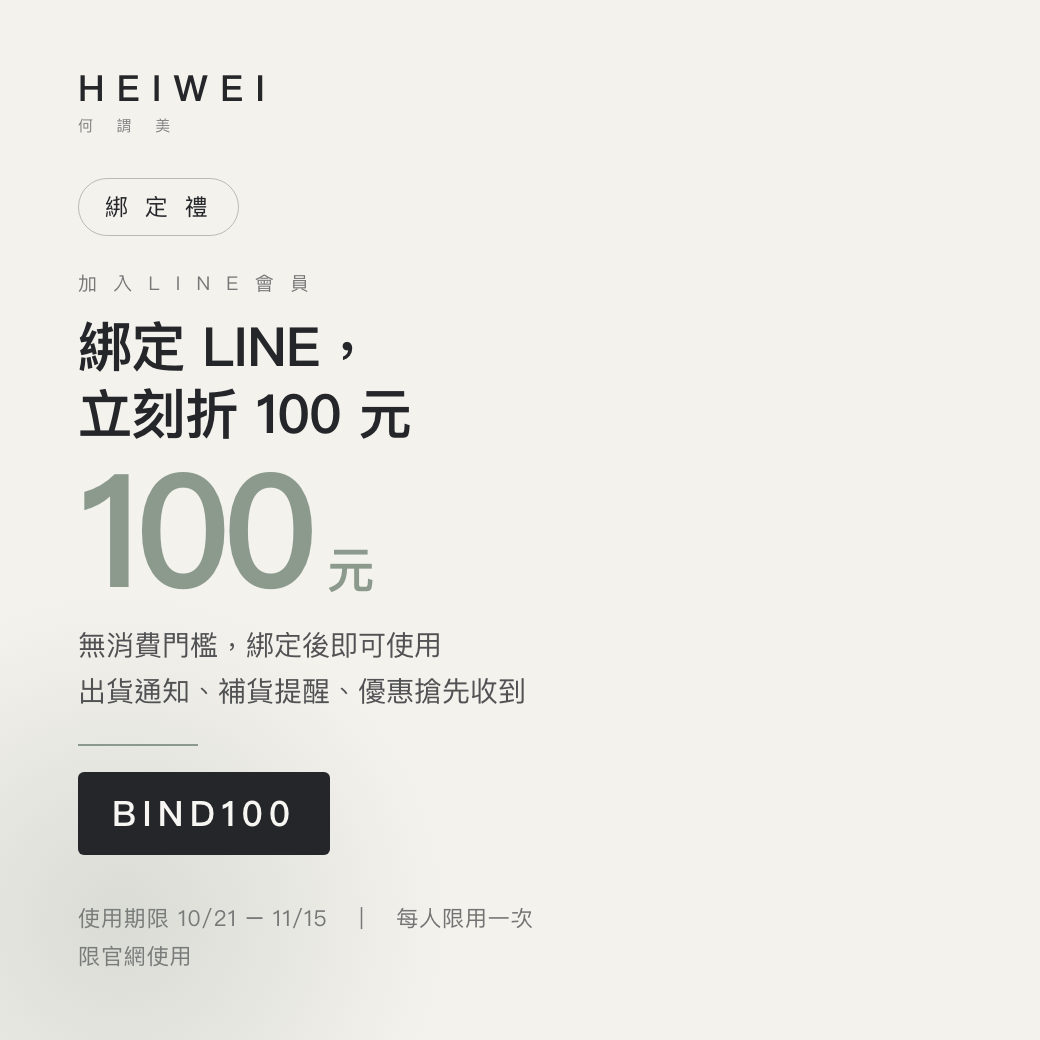
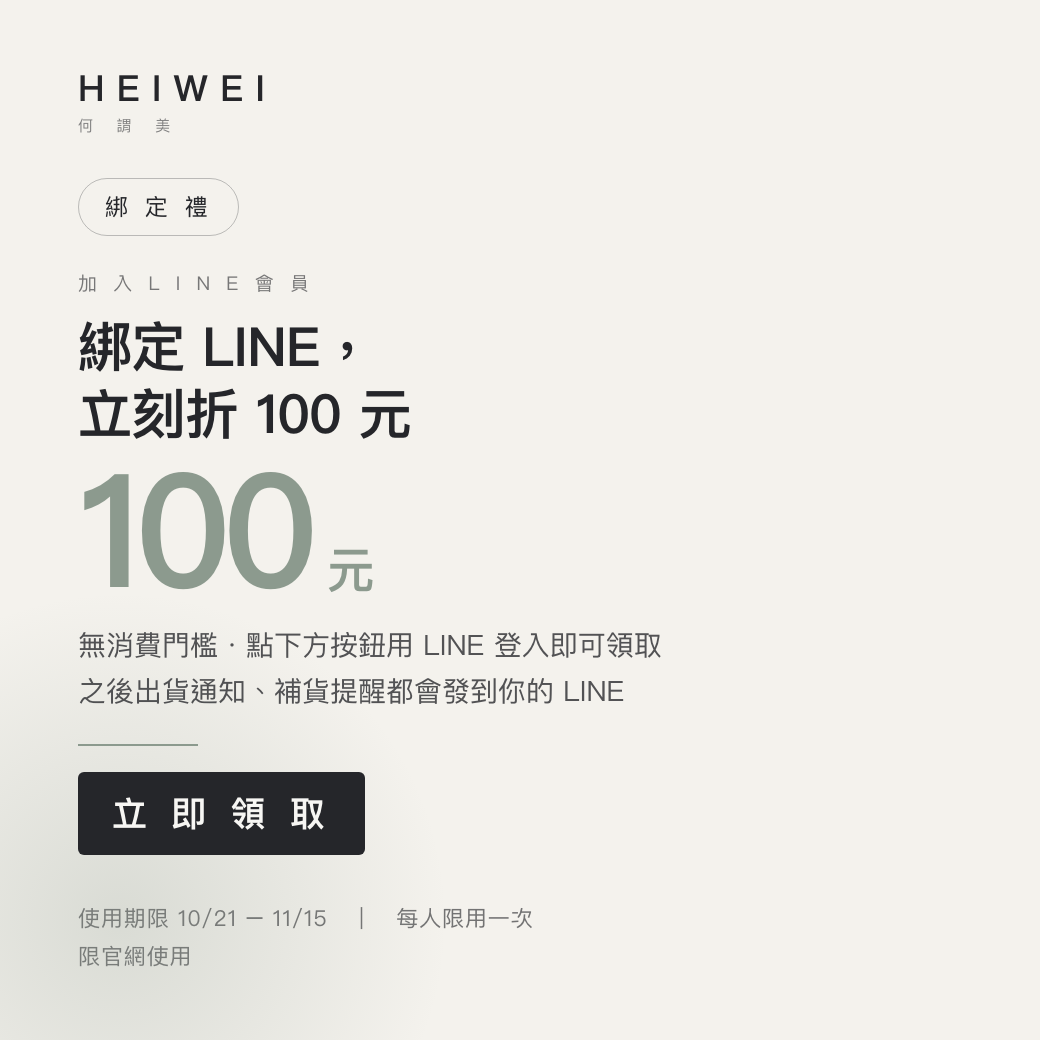
feat(crm-v2): BIND100 改為領取型優惠券，用領券連結取代折扣碼
原設計把折扣碼印在 A 軌信裡，但無門檻、無驗證——收到信的人直接複製
代碼就能用，綁不綁 LINE 完全不影響，「綁定禮」名存實亡。

Shopline 的領取型優惠券有現成解法：
  /get_coupon/<promotion_id>
  未登入點擊 → 302 到 /users/sign_in?result=not_login&promotion_id=<id>
  promotion_id 被帶著走，登入完成即自動領券（已用本站實測轉址行為）

所以「要登入才領得到」本身就是閘門：
- 信裡只放連結、沒有代碼，無法轉傳給非會員使用
- 引導選「使用 LINE 登入」→ 綁定與領券同時完成，零等待
- 不需要寫程式每隔幾分鐘輪詢偵測綁定再補發（原方案已作廢）
- 同一條連結可直接貼到 LINE 加入好友歡迎訊息與關鍵字自動回應，
  且不會與 Shopline 佔用的 webhook 衝突（@heiwei 的 webhook 指向
  front-admin.shoplineapp.com，一個 channel 只能有一個，不可改）

變更
- 圖卡 bind100：代碼區塊改為「立即領取」，說明改為引導 LINE 登入
- bind100.flex.json：移除複製折扣碼按鈕（已無代碼），改為領券連結按鈕
- 新增 set_claim_link.py：查出 promotion_id 並填入 Flex，印出領券連結
- 文案要點加粗體警告「信裡絕對不要放折扣碼」
- 客服手冊地雷由三條增為四條，第一條即為此事並寫出網址長相
- 手冊第 2 頁註明 BIND100 須選「透過連結或顧客分群發送」

待驗
- 登入後是否真的自動入帳，需由 Sam 以前台帳號實測（本機無前台登入權限）

無門檻維持不變（最低價商品 NT$310，等於 32% 折扣，已向使用者說明並確認）

Claude-Session: https://claude.ai/code/session_0139KhdQSS6gtY7sKbVk6GZj

Changed region(s): [[0.0615, 0.5846, 0.6462, 0.6769], [0.0923, 0.7385, 0.3692, 0.8308]]

diff --git a/data/crm-v2/sop.html b/data/crm-v2/sop.html
@@ -138,8 +138,8 @@ table.sop .fill{min-width:17mm}
 
 <table>
 <tr><th style="width:7mm"></th><th style="width:26mm">折扣碼</th><th>優惠內容</th><th style="width:44mm">使用期限</th><th style="width:15mm">每人</th><th style="width:20mm">總量</th></tr>
-<tr><td><span class=chk></span></td><td><code>BIND100</code></td><td>折抵 <b>NT$100</b>（<b>無門檻</b>）</td><td>10/21 – 11/15</td><td>1 次</td><td>不限</td></tr>
-<tr><td></td><td colspan=5 class=mute style="padding-top:0;border-bottom:1px solid #dcdcdd">① <b>綁定禮</b>｜A 軌 Email 的誘因，顧客綁定 LINE 後給這組碼。預估使用 300–800 次。</td></tr>
+<tr><td><span class=chk></span></td><td><code>BIND100</code><br><span class=mute>領取型優惠券</span></td><td>折抵 <b>NT$100</b>（<b>無門檻</b>）<br><span class=mute>第三步驟選「透過連結或顧客分群發送」</span></td><td>10/21 – 11/15</td><td>1 次</td><td>不限</td></tr>
+<tr><td></td><td colspan=5 class=mute style="padding-top:0;border-bottom:1px solid #dcdcdd">① <b>綁定禮</b>｜A 軌 Email 的誘因。<b>建好後把 promotion_id 給 Sam</b> 組成領券連結；信裡放連結不放代碼。預估 300–800 次。</td></tr>
 <tr><td><span class=chk></span></td><td><code>V2RETURN</code></td><td>滿 NT$2,000 折 <b>NT$200</b></td><td><b>10/31 – 11/15</b>（提前 48 小時）</td><td>1 次</td><td>200 次</td></tr>
 <tr><td></td><td colspan=5 class=mute style="padding-top:0;border-bottom:1px solid #dcdcdd">② <b>回頭客週年慶先行</b>｜B 軌 LINE 推播給 136 位高價值客。<b>這組碼的使用次數＝本次推播的轉換數</b>，是唯一的成效依據。</td></tr>
 <tr style="opacity:.45"><td>—</td><td><code>V2NEW</code></td><td colspan=4><b>本次不建立</b>　（無新品上架，方案未定）</td></tr>
@@ -151,6 +151,7 @@ table.sop .fill{min-width:17mm}
 <div style="margin-top:2mm"><span class=chk></span>　適用通路：<b>官網</b>（不含團購頁、不含線下）</div>
 <div><span class=chk></span>　折扣碼大小寫不限，但請照上表原樣輸入</div>
 <div><span class=chk></span>　兩組都建好後，各自在前台下一筆測試單確認能折抵</div>
+<div><span class=chk></span>　<b>BIND100 另需實測領券連結</b>：登出 → 點連結 → 用 LINE 登入 → 確認券入帳</div>
 <div><span class=chk></span>　完成日：<b>10/20（一）前</b>　實際完成 <span class=fill style="min-width:26mm"></span>　執行人 <span class=fill style="min-width:22mm"></span></div>
 </div>
 
@@ -186,7 +187,7 @@ table.sop .fill{min-width:17mm}
 <div style="margin-top:2mm;line-height:1.72">
 <span class=chk></span>1. 依<b>《客服_Shopline 電郵廣播操作手冊》</b>建立顧客分群<br>
 <span class=chk></span>2. 向行銷部索取定稿文案<br>
-<span class=chk></span>3. <b>先寄給自己一封測試</b>，確認折扣碼與綁定連結可用<br>
+<span class=chk></span>3. <b>先寄給自己一封測試</b>，實測領券連結能用 LINE 登入並領到券<br>
 <span class=chk></span>4. 用「<b>預約發送</b>」排 10/21，不要用「直接發送」<br>
 <span class=chk></span>5. 寄出後記錄實際寄送人數<br>
 <span class=chk></span>6. 於 <b>10/22 前</b>把下表填好交給 Sam
@@ -206,11 +207,11 @@ table.sop .fill{min-width:17mm}
 
 <div class=sec><div class=sh><b>文案要點（給行銷部）</b><span>COPY BRIEF</span></div>
 <div class="callout" style="line-height:1.6"><b>主軸：「綁定 LINE，週年慶優惠提前 48 小時通知你」</b><br>
-必須包含的四件事：<br>
 ① <b>為什麼要綁</b> —— 出貨通知、補貨提醒、優惠搶先知道，不用翻信箱<br>
-② <b>綁定方式</b> —— 加入 @heiwei 官方帳號並於官網以 LINE 登入<br>
-③ <b>立即好處</b> —— 綁定後輸入折扣碼 <code>BIND100</code> 現折 100 元，無消費門檻<br>
+② <b>怎麼領</b> —— 放<b>領券連結</b>，點了選「使用 LINE 登入」，登入完成券就自動入帳<br>
+③ <b>立即好處</b> —— 100 元優惠券，<b>無消費門檻</b><br>
 ④ <b>期限</b> —— 11/15 前有效<br>
+<b>⚠ 信裡絕對不要放折扣碼。</b>放了就能被轉傳、不綁定也能用，整個綁定誘因會失效。只放連結。<br>
 ⚠ <b>不要寫「美白」「防曬」「SPF」等功效宣稱</b>（檢驗報告結案前一律凍結）。</div>
 </div>
 </div>

diff --git a/data/crm-v2/cs_email_sop.html b/data/crm-v2/cs_email_sop.html
@@ -186,36 +186,43 @@ table.sop .fill{min-width:17mm}
 </div>
 </div>
 <div class=ft><div>HEIWEI 何謂美　｜　2026/10/15 版　｜　列印後依序執行，完成請打勾</div><div>客服操作手冊　・　2 / 3</div></div></div><div class=page><div class=hd><div class=logo>HEIWEI<div class=sub>何 謂 美</div></div><div class=hdr><div class=t1>Shopline 電郵廣播操作手冊</div><div class=t2>EMAIL BROADCAST SOP</div><div class=t3>注意事項與成效回報</div></div></div>
-<div class=sec><div class=sh><b>三個會出事的地方</b><span>PITFALLS</span></div>
+<div class=sec><div class=sh><b>四個會出事的地方</b><span>PITFALLS</span></div>
 
 <div class=step>
-<b class=t>① 連結一定要貼完整網址</b>
+<b class=t>① 信裡放「領券連結」，絕對不要放折扣碼</b>
 <div style="margin-top:1.8mm;line-height:1.75">
-要貼 <code>https://www.heiweibeauty.com/...</code> 這種<b>完整含 https 的網址</b>。<br>
-系統會自動幫你轉成短網址並記錄點擊 ——
+Sam 會給你一條這樣的網址：<code>https://www.heiweibeauty.com/get_coupon/xxxxx</code><br>
+顧客點了會被要求登入，選「<b>使用 LINE 登入</b>」後優惠券自動入帳 ——
+<b>登入這個動作就是我們要的綁定</b>。<br>
+若改放折扣碼，顧客不綁定也能用、還能轉傳給別人，整個活動就失去意義。
+</div>
+</div>
+
+<div class=step>
+<b class=t>② 連結要貼完整網址</b>
+<div style="margin-top:1.8mm;line-height:1.75">
+要貼<b>完整含 https 的網址</b>。系統會自動轉成短網址並記錄點擊 ——
 <b>不要自己先用短網址工具縮過再貼</b>，會導致點擊數追蹤不到。
 </div>
 </div>
 
 <div class=step>
-<b class=t>② 一封信最多只能放 10 個連結</b>
+<b class=t>③ 一封信最多只能放 10 個連結</b>
 <div style="margin-top:1.8mm;line-height:1.75">
 超過 10 個，顧客收到的連結會是錯的。<br>
-本次信件預計只需要 2 個：綁定教學連結、官網連結。
+本次信件預計只需要 2 個：<b>領券連結</b>、官網連結。
 </div>
 </div>
 
 <div class=step>
-<b class=t>③ 一律用「預約發送」，不要用「直接發送」</b>
+<b class=t>④ 一律用「預約發送」，不要用「直接發送」</b>
 <div style="margin-top:1.8mm;line-height:1.75">
 「直接發送」按下去就<b>不能修改也不能取消</b>。<br>
 「預約發送」在設定時間到之前都還能改內容、改對象、整個取消。
 </div>
 </div>
 
-<div class="callout warn" style="line-height:1.55"><b>寄出前務必先試寄一封給自己。</b>
-做法：另外建一個只含你自己的顧客分群，先發一封測試，確認版面、連結、折扣碼都正確，再發正式的那封。
-</div>
+<div class="callout warn" style="line-height:1.5;margin-top:2.2mm"><b>寄出前務必先試寄給自己</b>——另建一個只含你自己的分群，確認版面與領券連結都正確，再發正式那封。</div>
 </div>
 
 <div class=sec style="margin-top:5mm"><div class=sh><b>第三步　看成效並回報</b><span>STEP 3 · REPORT</span></div>

diff --git a/data/crm-v2/report.html b/data/crm-v2/report.html
@@ -178,7 +178,7 @@ V2 的 A 軌改走 <b>Shopline 廣播中心</b>，原生提供點擊人數、下
 <div class="callout warn"><b>⚠ 購物金發放方式待確認：</b>
 Shopline 顧客資料有 <code>credit_balance</code> 欄位，但<b>能否用 API 批次發放尚未驗證</b>。
 若不行則需後台逐筆操作 —— 兩千多位不可能手動發。
-<b><b>已定案</b>改為「綁定後自動發 100 元折扣碼」（BIND100）</b>，折扣碼可一次建立、所有人共用，後台設定「每人限用一次」。</div>
+<b>已定案改為「領取型優惠券」</b>（BIND100）。領券連結本身即為閘門：未登入領不到；登入時選「使用 LINE 登入」，<b>綁定與領券同時完成，零等待</b>，也不需要寫程式輪詢偵測。</div>
 </div>
 
 <div class=sec><div class=sh><b>與既有檔期的關係</b><span>CALENDAR FIT</span></div>

diff --git a/heiwei-line-cards/_bind100.html b/heiwei-line-cards/_bind100.html
@@ -18,9 +18,9 @@
     <div class=eyebrow>加 入 L I N E 會 員</div>
     <div class=headline>綁定 LINE，<br>立刻折 100 元</div>
     <div class=big>100<small> 元</small></div>
-    <div class=sub2>無消費門檻，綁定後即可使用<br>出貨通知、補貨提醒、優惠搶先收到</div>
+    <div class=sub2>無消費門檻．點下方按鈕用 LINE 登入即可領取<br>之後出貨通知、補貨提醒都會發到你的 LINE</div>
     <div class=rule></div>
-    <div class=code>BIND100</div>
+    <div class=code>立 即 領 取</div>
   </div>
   <div class=foot>使用期限 10/21 – 11/15　｜　每人限用一次<br>限官網使用</div>
 </div>

diff --git a/heiwei-line-cards/set_claim_link.py b/heiwei-line-cards/set_claim_link.py
@@ -1,0 +1,73 @@
+#!/usr/bin/env python3
+"""把領取型優惠券的 promotion_id 填進 Flex 卡片。
+
+Shopline 的領券連結長這樣：
+    https://www.heiweibeauty.com/get_coupon/<promotion_id>
+未登入點擊會被轉到登入頁，且 promotion_id 會被帶著走，登入完成即自動領券。
+所以「要登入才領得到」本身就是閘門——不需要另外驗證綁定，也不需要發代碼。
+
+用法：
+  python3 set_claim_link.py --code BIND100          # 用折扣碼查
+  python3 set_claim_link.py --title 綁定禮           # 用促銷標題查
+  python3 set_claim_link.py --id 6ad0...             # 直接指定 id
+
+⚠ 券必須先在 Shopline 後台建好（選「透過連結或顧客分群發送」的領取型優惠券）。
+"""
+import argparse, io, json, os, sys
+sys.path.insert(0, os.path.join(os.path.dirname(os.path.abspath(__file__)),
+                                '..', 'scripts', 'shopline'))
+import sl_api as S
+
+SHOP = 'https://www.heiweibeauty.com'
+FLEX = os.path.join(os.path.dirname(os.path.abspath(__file__)), 'cards', 'bind100.flex.json')
+
+
+def find(code=None, title=None):
+    for p in S.get_promotions():
+        if code and any(str(c).strip().lower() == code.lower() for c in (p.get('codes') or [])):
+            return p
+        t = (p.get('title_translations') or {}).get('zh-hant') or ''
+        if title and title in t:
+            return p
+    return None
+
+
+def main():
+    ap = argparse.ArgumentParser()
+    g = ap.add_mutually_exclusive_group(required=True)
+    g.add_argument('--code'); g.add_argument('--title'); g.add_argument('--id')
+    ap.add_argument('--flex', default=FLEX)
+    a = ap.parse_args()
+
+    if a.id:
+        pid, name = a.id, '(直接指定)'
+    else:
+        print('查詢促銷中…', file=sys.stderr)
+        p = find(a.code, a.title)
+        if not p:
+            raise SystemExit(f'找不到促銷（code={a.code} title={a.title}）——後台建好了嗎？')
+        pid = str(p.get('_id') or p.get('id'))
+        name = (p.get('title_translations') or {}).get('zh-hant') or '(無標題)'
+
+    link = f'{SHOP}/get_coupon/{pid}'
+    s = io.open(a.flex, encoding='utf-8').read()
+    n = s.count('__PROMOTION_ID__')
+    if n:
+        s = s.replace('__PROMOTION_ID__', pid)
+    else:
+        import re
+        s, n = re.subn(r'https://www\.heiweibeauty\.com/get_coupon/[0-9a-zA-Z]+', link, s)
+    io.open(a.flex, 'w', encoding='utf-8').write(s)
+
+    print('=' * 56)
+    print(f'促銷　　{name}')
+    print(f'ID　　　{pid}')
+    print(f'領券連結 {link}')
+    print(f'已更新　{os.path.basename(a.flex)}（{n} 處）')
+    print('=' * 56)
+    print('這條連結可以放進：Email 內文、LINE 加入好友歡迎訊息、關鍵字自動回應。')
+    print('⚠ 請先自己登出後實測一次：點連結 → 用 LINE 登入 → 確認會員中心有這張券。')
+
+
+if __name__ == '__main__':
+    main()

diff --git a/heiwei-line-cards/README.md b/heiwei-line-cards/README.md
@@ -16,3 +16,17 @@ vercel --prod
 
 ⚠ 版型高度固定 1040px，`.card` 用 `justify-content:space-between`。
 字級調大容易讓頁尾被切掉 —— 改完一定要看圖再部署。
+
+## 領取型優惠券的連結機制（BIND100）
+
+Shopline 的領券連結是 `https://www.heiweibeauty.com/get_coupon/<promotion_id>`。
+未登入點擊會 302 到 `/users/sign_in?result=not_login&promotion_id=<id>`，
+**promotion_id 會被帶著走，登入完成即自動領券**。
+
+所以「要登入才領得到」本身就是閘門：
+- 不必在信裡放折扣碼（放了就能被轉傳、不綁定也能用）
+- 不必寫程式輪詢偵測綁定再發碼
+- 顧客點連結 →「使用 LINE 登入」→ 綁定與領券同時完成，零等待
+
+券建好後執行 `python3 set_claim_link.py --code BIND100` 把 id 填進
+`cards/bind100.flex.json`，同一條連結也可貼到 LINE 加入好友歡迎訊息與關鍵字自動回應。
